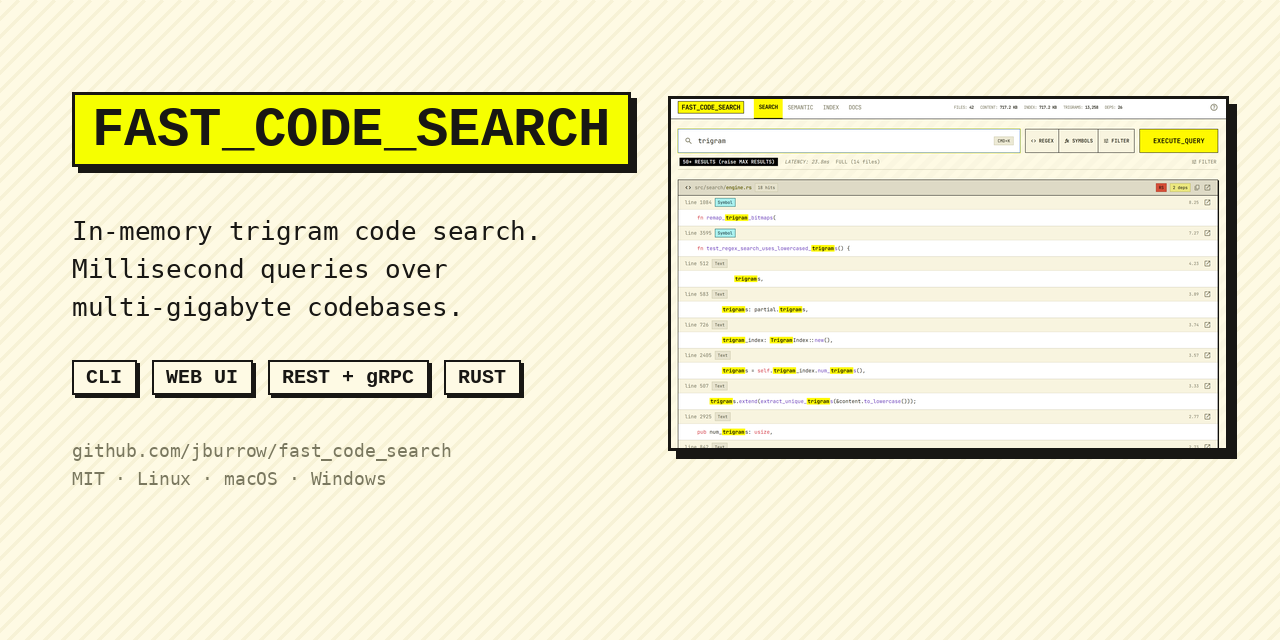
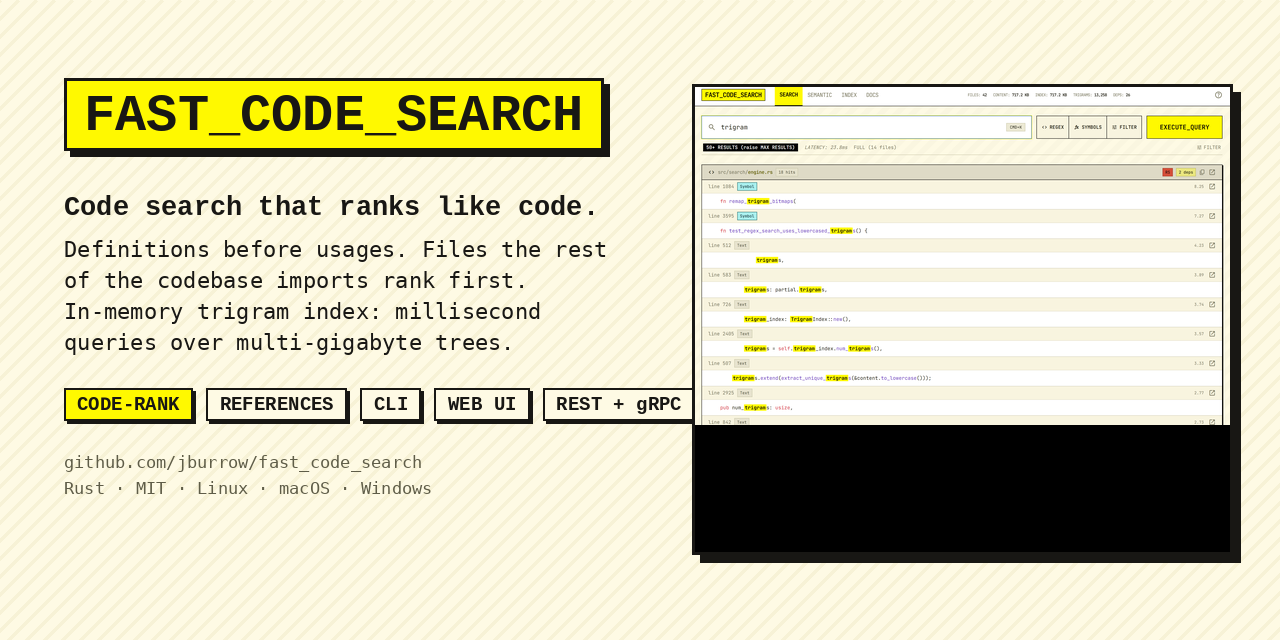
docs: position code-rank as the thesis; re-cut the social card around it

diff --git a/docs/plans/2026-09-07-premium-repository-plan.md b/docs/plans/2026-09-07-premium-repository-plan.md
@@ -45,6 +45,39 @@ categories, a public roadmap, release notes on the GitHub release itself.
 **Distribution.** Release archives for five targets. Not on crates.io, no
 `cargo binstall` metadata, no Homebrew tap, no container image.
 
+## Positioning: code-rank
+
+The thing to labour everywhere is not "fast grep" but the ranking. The
+engine already scores results the way a reader of code would:
+
+- a line that *defines* a symbol outranks lines that merely use it (3×);
+- a file the rest of the codebase imports ranks above one nothing depends
+  on (`1 + 0.5·log10(dependents)`, a PageRank-style signal from the import
+  graph the indexer resolves);
+- files dense in definitions rank above scratch files; tests and examples
+  are demoted; `src/` and `lib/` are promoted;
+- a multi-term query puts lines holding the phrase first, then lines
+  holding every term;
+- exact case and start-of-line matches are boosted, long lines damped;
+- `references` is a first-class query: call sites and type mentions of an
+  identifier, across languages.
+
+Call this **code-rank** in the README pitch ("Code search that ranks like
+code"), the site headline, the social card, and a dedicated "How ranking
+works" page with worked examples (`fn main` → the definition, then callers;
+`Widget` → its definition, then the files that import it). Pair it with the
+second half of the pitch, the in-memory trigram index, as the reason it is
+fast enough to use on every keystroke. Every other section below carries
+this thread: the README leads with it, the docs explain it, and the
+benchmarks measure it.
+
+Measuring it is what makes the claim premium rather than marketing:
+workstream 3 gains a **ranking-quality suite** — a labelled set of queries
+over the pinned corpora (tokio, Django, rust-lang/rust) with the expected
+top result (the definition, the most-imported implementation), scored as
+precision@1 / precision@5 and tracked per commit like latency. A ranking
+change that helps latency but hurts precision fails CI.
+
 ## Principles
 
 1. **Every number is a link.** No performance figure appears anywhere
@@ -236,8 +269,9 @@ and housekeeping so nothing is documented twice.
 
 ## Definition of done
 
-- [ ] README under 200 lines with GIF, three install paths, generated
-      benchmark block, documentation map; every number linked.
+- [ ] README under 200 lines that leads with code-rank, with GIF, three
+      install paths, generated benchmark and ranking-quality blocks,
+      documentation map; every number linked.
 - [ ] Repository description, topics, homepage, social preview,
       Discussions, code of conduct, issue templates, fuller security policy.
 - [ ] Docs site with Start here / Guides / Reference / How it works /
